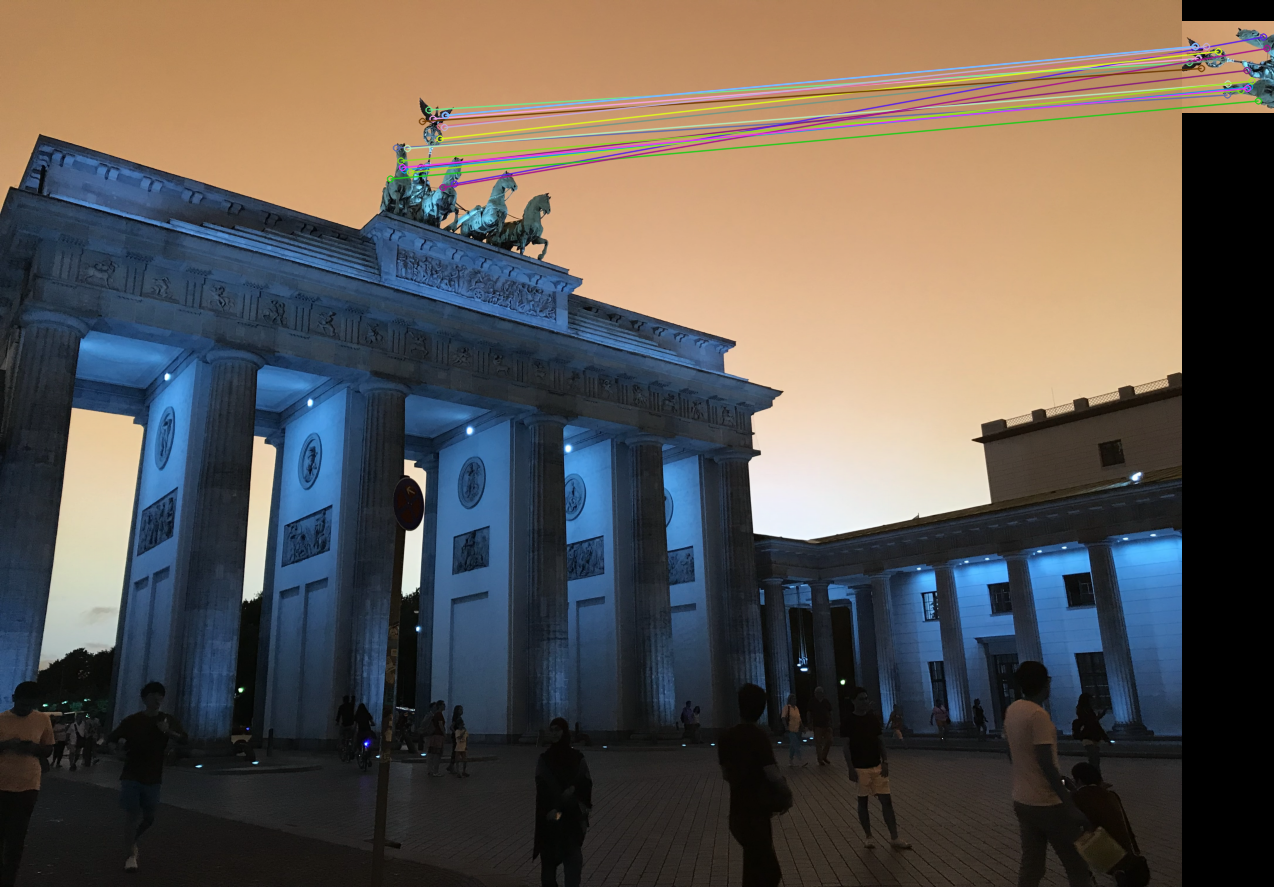
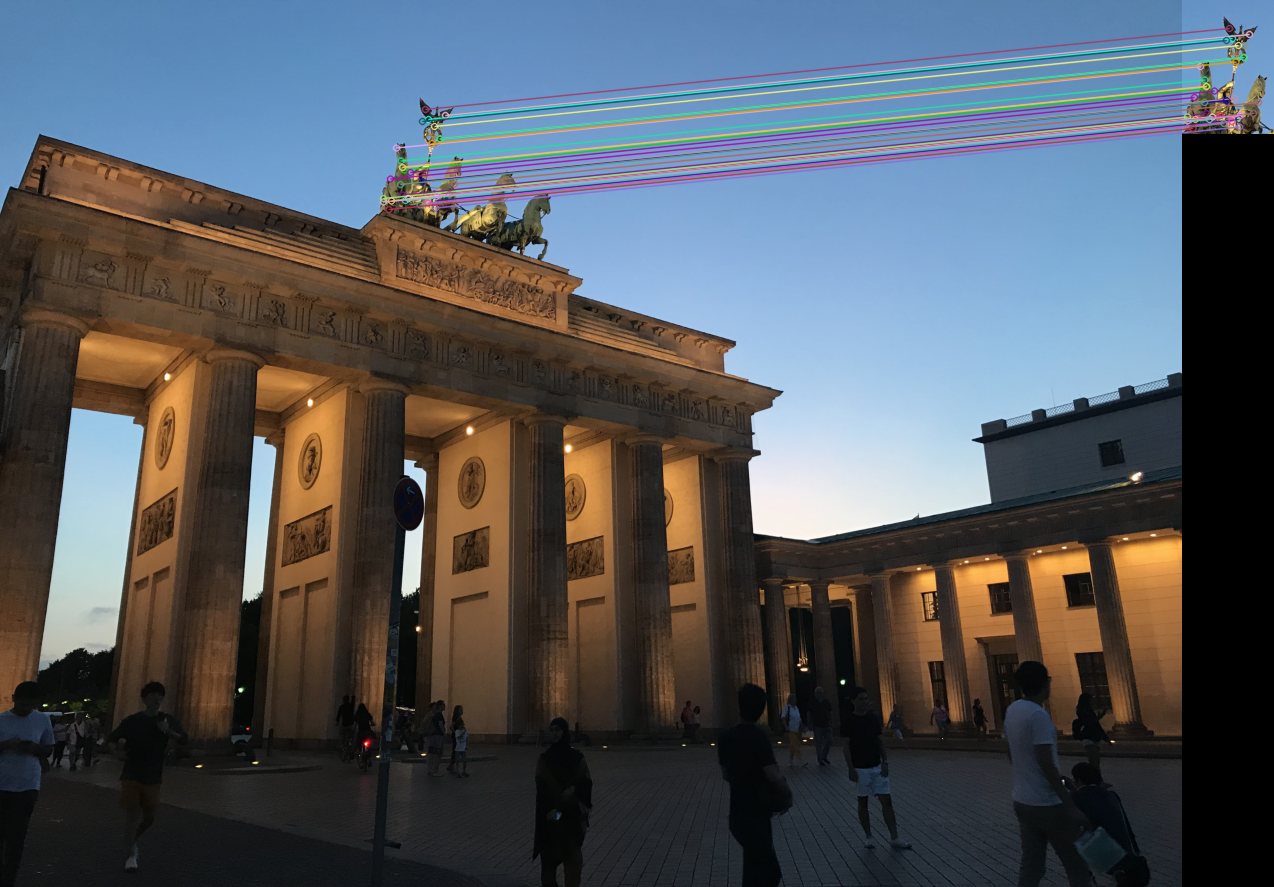
SizeAndColorDone

diff --git a/Task3/main.py b/Task3/main.py
@@ -1,4 +1,4 @@
-from PyQt5 import QtWidgets, QtGui
+from PyQt5 import QtWidgets, QtGui,QtCore
 from imageview import Ui_MainWindow
 import sys
 import numpy as np
@@ -46,8 +46,10 @@ class ApplicationWindow(QtWidgets.QMainWindow):
         start = time.time()
         self.sift = sift.Sift(self.path1,self.path2)
         output = self.sift.OutPut()
-        cv2.imwrite("./images/siftPicture.png", output)
-        self.ui.OutputTab7.setPixmap(QPixmap("./images/siftPicture.png"))
+        cv2.imwrite("./images/siftPicture.png",  cv2.cvtColor(output, cv2.COLOR_RGB2BGR))
+        w = self.ui.OutputTab7.width()
+        h = self.ui.OutputTab7.height()
+        self.ui.OutputTab7.setPixmap(QPixmap("./images/siftPicture.png").scaled(w,h,QtCore.Qt.KeepAspectRatio))
         end = time.time()
         timeNeeded = (end - start )/60 
         timeNeeded = round(timeNeeded,2)
@@ -79,10 +81,14 @@ class ApplicationWindow(QtWidgets.QMainWindow):
             elif (tab == 5):
                 self.ui.InputTab4.setPixmap(QPixmap(path))
             elif (tab == 7):
-                self.ui.Input1Tab7.setPixmap(QPixmap(path))
+                w = self.ui.Input1Tab7.width()
+                h = self.ui.Input1Tab7.height()
+                self.ui.Input1Tab7.setPixmap(QPixmap(path).scaled(w,h,QtCore.Qt.KeepAspectRatio))
                 self.path1 = path
             elif (tab == 8):
-                self.ui.Input2Tab7.setPixmap(QPixmap(path))  
+                w = self.ui.Input2Tab7.width()
+                h = self.ui.Input2Tab7.height()
+                self.ui.Input2Tab7.setPixmap(QPixmap(path).scaled(w,h,QtCore.Qt.KeepAspectRatio))
                 self.path2 = path      
 
 

diff --git a/Task3/sift.py b/Task3/sift.py
@@ -27,7 +27,7 @@ class Sift:
         self.imgs_gray = self.rgb2gray(self.img_rgb_used)
         self.img_sift = self.pipeline(self.imgs_gray)
         self.img2_rgb,_ = self.sift_resize(np.array(Image.open(Image2)), ratio )
-        self.img2_rgb = rotate(self.img2_rgb,90)
+        # self.img2_rgb = rotate(self.img2_rgb,90)
         self.imgs_gray2 = self.rgb2gray(self.img2_rgb)
         self.img_sift2 = self.pipeline(self.imgs_gray2)
         # outputImage = self.match(img_rgb_used, img_sift[0], img_sift[1], img2_rgb, img_sift2[0], img_sift2[1])
@@ -288,4 +288,5 @@ class Sift:
 
         cv2.drawMatches(img_a,pts_a,img_b,pts_b,good, outImg = img_match,
                     flags=cv2.DrawMatchesFlags_NOT_DRAW_SINGLE_POINTS)
+                  
         return img_match
